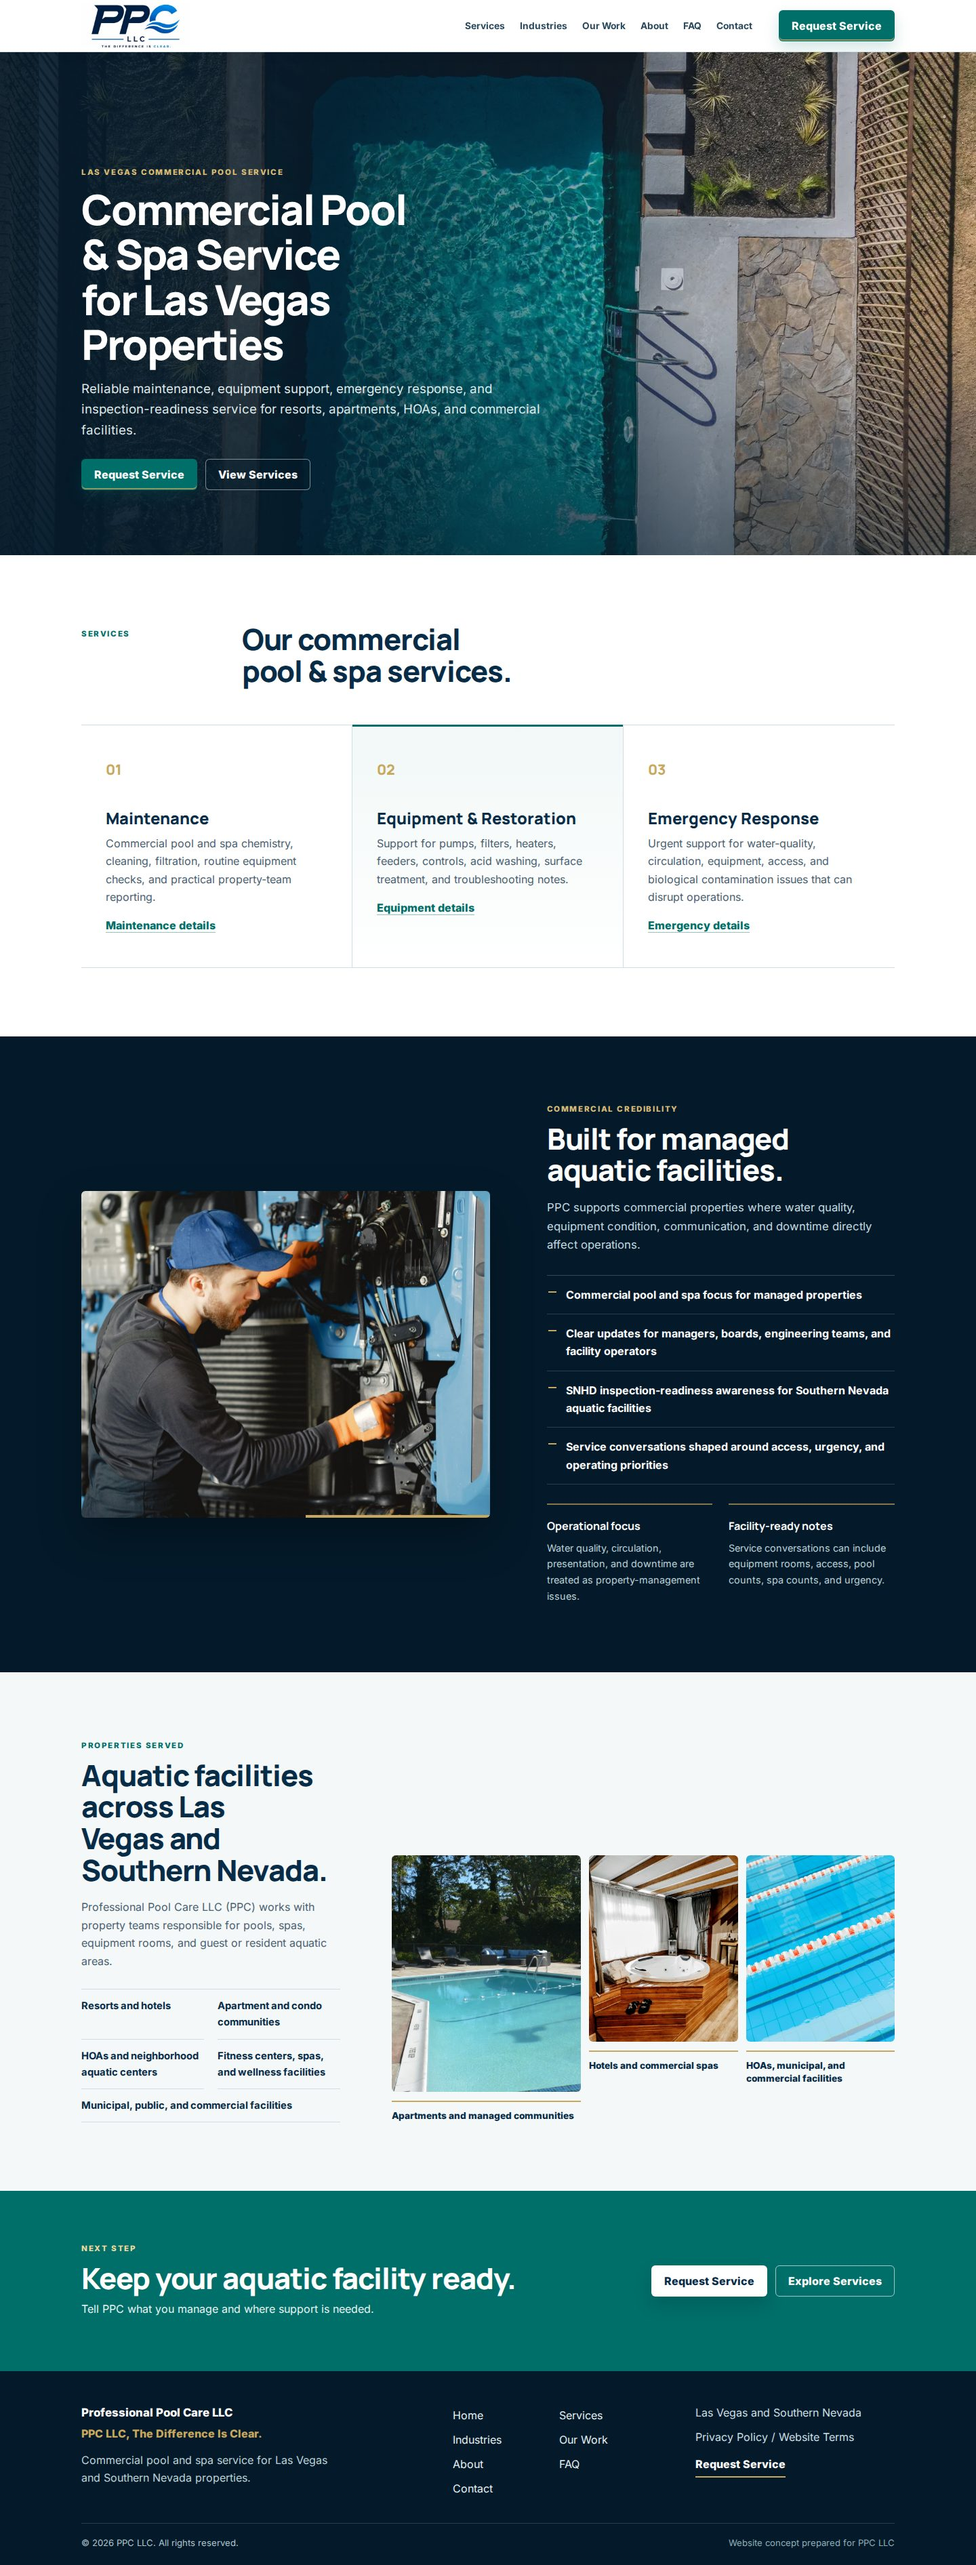
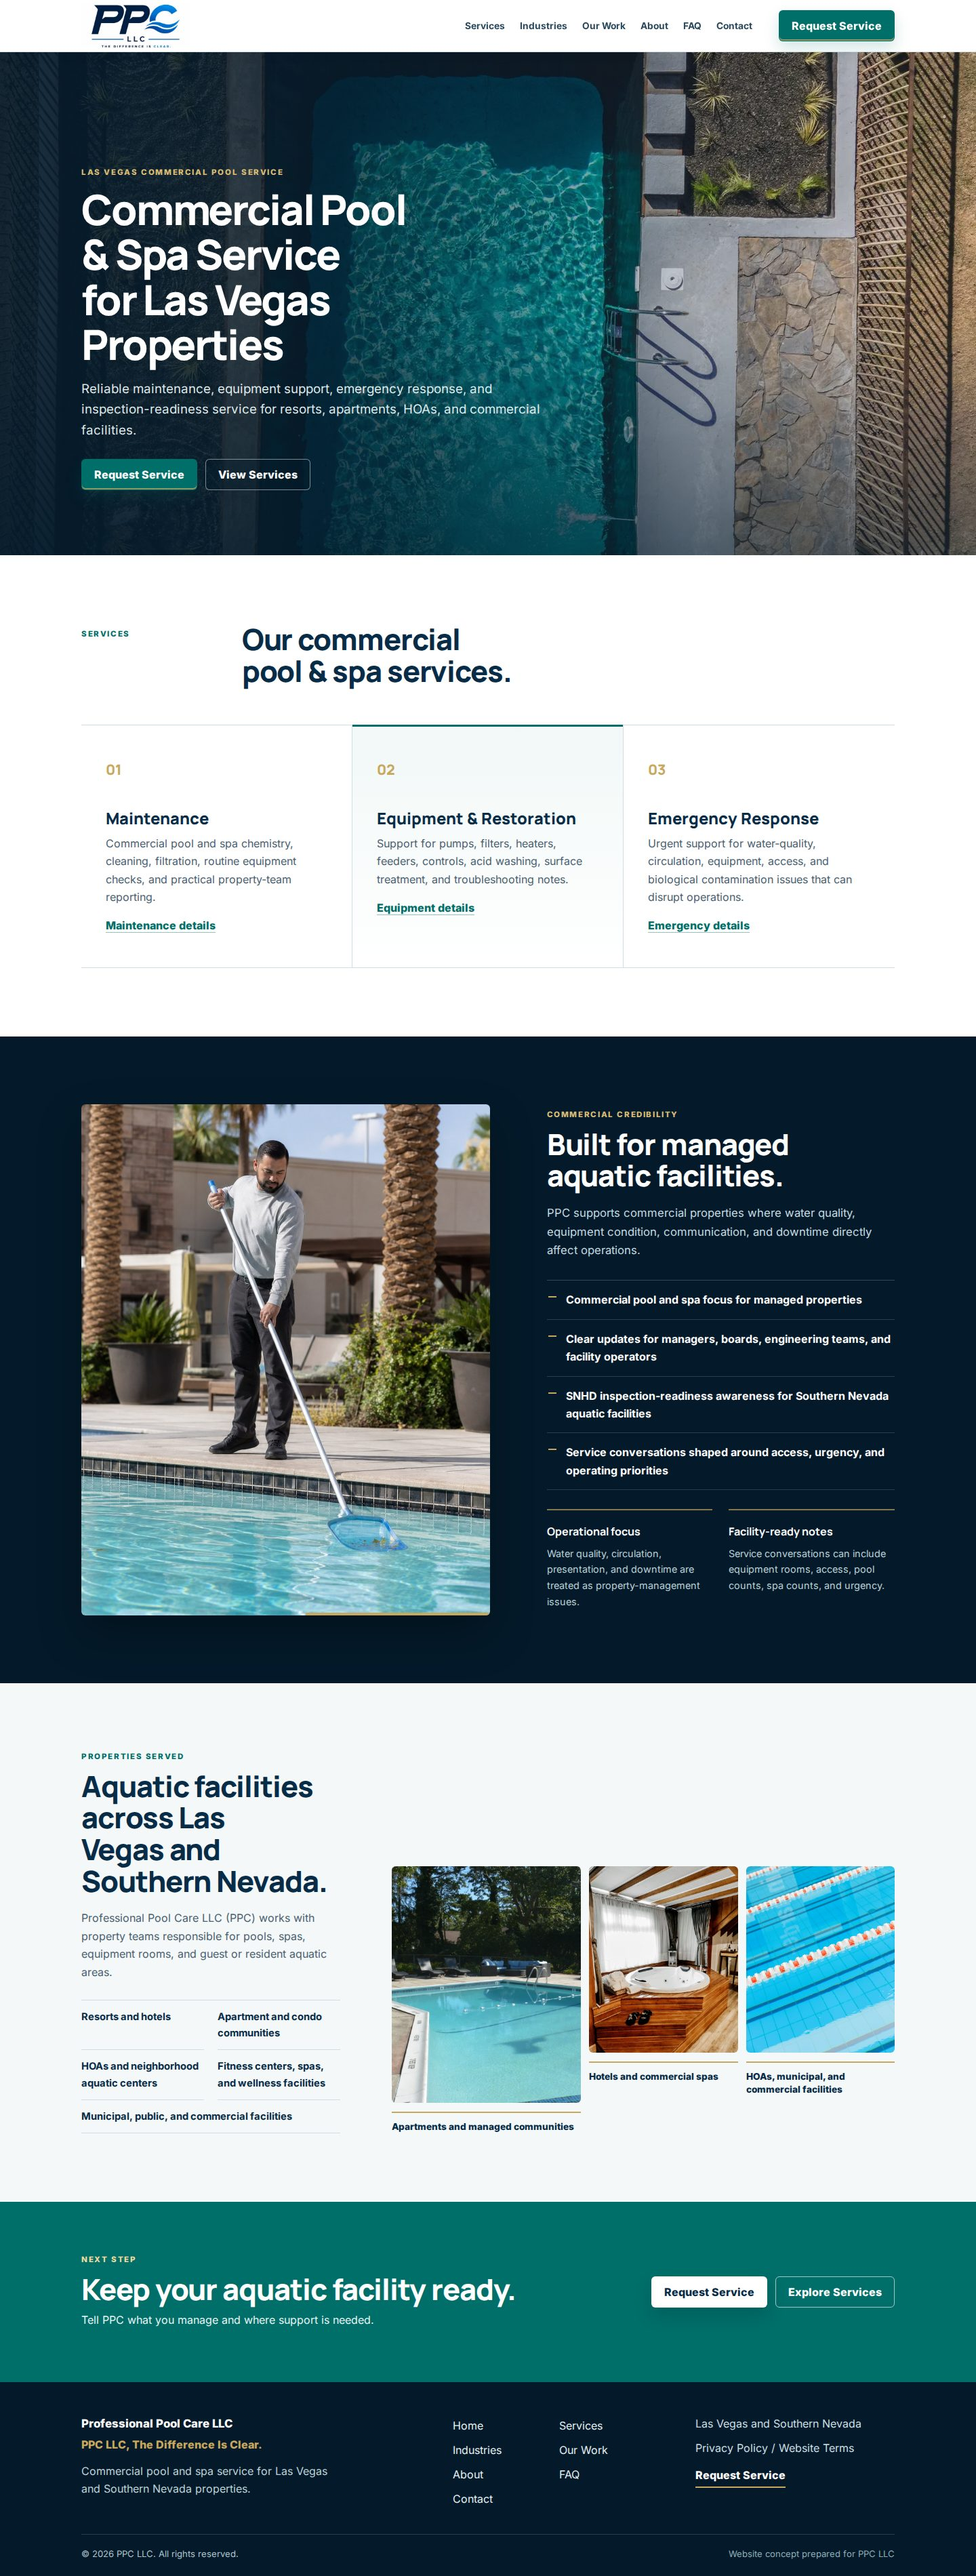
Replace homepage credibility image

diff --git a/index.html b/index.html
@@ -94,8 +94,7 @@
     <section class="section commercial-credibility">
       <div class="container credibility-split">
         <figure class="credibility-image reveal">
-          <img src="images/commercial-equipment-room-service.jpg" width="1500" height="1000" loading="lazy" alt="Commercial pool equipment room with service equipment and piping">
-          <!-- Temporary commercial equipment-room image; replace with verified PPC equipment-room or technician photography before launch if available. -->
+          <img src="images/commercial-surface-cleaning.jpg" width="1200" height="1824" loading="lazy" alt="Pool service technician removing debris from a commercial pool with a long skimmer">
         </figure>
         <div class="credibility-copy reveal">
           <p class="eyebrow">Commercial Credibility</p>

diff --git a/styles.css b/styles.css
@@ -444,9 +444,9 @@ p { margin-bottom: 16px; }
 }
 .credibility-image img {
   width: 100%;
-  aspect-ratio: 5 / 4;
+  aspect-ratio: 4 / 5;
   object-fit: cover;
-  object-position: 52% center;
+  object-position: center 46%;
 }
 .credibility-copy { max-width: 590px; }
 .credibility-copy h2 { color: var(--white); }
@@ -1072,7 +1072,7 @@ details p { max-width: 72ch; margin: 0; padding: 0 48px 20px 0; color: var(--mut
   .service-line-item::before { right: 100%; left: 0; }
   .service-line-item.featured-service::before { right: 72%; }
   .credibility-split { gap: 36px; }
-  .credibility-image img { aspect-ratio: 4 / 3; }
+  .credibility-image img { aspect-ratio: 4 / 5; }
   .trust-cards,
   .property-type-list { grid-template-columns: 1fr; }
   .property-type-list li:last-child { grid-column: auto; }
